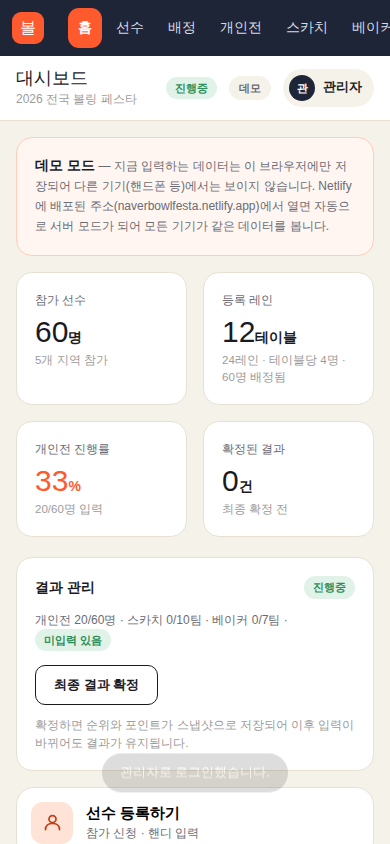
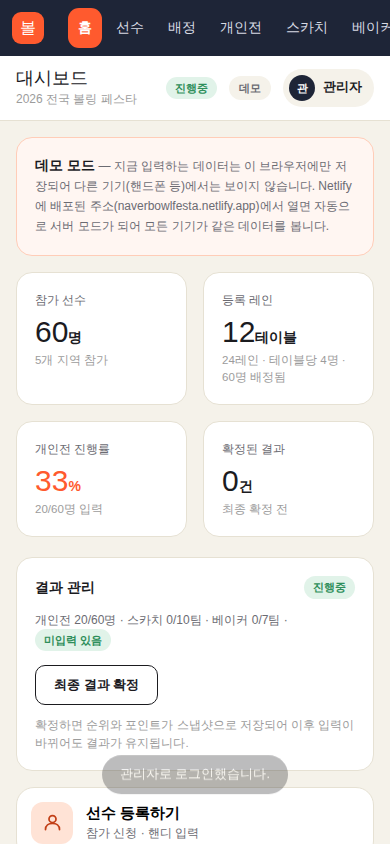
신청서 업로드 시 지역명 입력, 팀명은 지역명+번호로 생성, 팀명 일괄 재생성 버튼
- 업로드 카드에 지역명(예: 청주) 입력란 추가, 클럽명은 참고 표시·지역 비고에 저장
- 같은 클럽 신청서 재업로드 시 지역명 자동 채움
- 지역명 입력 중 화면을 다시 그리지 않아 등록 버튼 클릭이 끊기지 않음
- 배정 → 스카치/베이커에 '팀명 재생성 (지역명+번호)' 버튼

Claude-Session: https://claude.ai/code/session_01DhqBGLwVp5Frwx9nNKai69

Changed region(s): [[0.2462, 0.8934, 0.7385, 0.955]]

diff --git a/js/app.js b/js/app.js
@@ -431,6 +431,11 @@
   }
 
   // ----- 신청서 엑셀 업로드 -----
+  function uploadHint(u) {
+    const p = u.parsed; const name = (u.regionName || '').trim();
+    const existing = name ? state.data.regions.find(r => r.name === name) : null;
+    return `클럽명: <b>${esc(p.clubName || '-')}</b> · ${!name ? '<span class="form-error" style="display:inline">지역명을 입력하세요</span>' : existing ? `기존 지역 <b>${esc(existing.name)}</b>에 등록 (현재 ${state.data.players.filter(x => x.regionId === existing.id).length}명)` : '새 지역으로 추가'}`;
+  }
   function renderUploadCard() {
     const s = S();
     const ups = state.uploads;
@@ -441,11 +446,11 @@
     ups.forEach((u, i) => {
       const p = u.parsed;
       if (!p) { html += `<div class="lane-box mt"><b>${esc(u.fileName)}</b><p class="form-error">${esc(u.error || '읽기 실패')}</p></div>`; return; }
-      const existing = state.data.regions.find(r => r.name === (u.regionName || p.clubName));
+      // (지역명 안내 문구는 uploadHint 로 생성, 입력 중에는 DOM 만 갱신해 버튼 클릭이 끊기지 않게 함)
       const groups = {}; p.players.forEach(x => { groups[x.group] = (groups[x.group] || 0) + 1; });
       const unknownGroups = Object.keys(groups).filter(g => !s.groups.some(x => x.name === g));
       html += `<div class="lane-box mt"><div class="row between"><b>${esc(u.fileName)}</b>${u.done ? '<span class="badge final">등록 완료</span>' : ''}</div>
-        <div class="form-row mt"><div class="form-group"><label>클럽(지역) 이름</label><input type="text" data-upload-region="${i}" value="${esc(u.regionName || p.clubName)}"></div><div class="form-group" style="align-self:flex-end"><span class="small">${existing ? `기존 지역 <b>${esc(existing.name)}</b>에 등록 (현재 ${state.data.players.filter(x => x.regionId === existing.id).length}명)` : '새 지역으로 추가'}</span></div></div>
+        <div class="form-row mt"><div class="form-group"><label>지역명 <span class="muted" style="font-weight:400">(팀명은 지역명+번호로 생성, 예: 청주 → 청주1, 청주2)</span></label><input type="text" data-upload-region="${i}" value="${esc(u.regionName || '')}" placeholder="예: 청주" ${u.done ? 'disabled' : ''}></div><div class="form-group" style="align-self:flex-end"><span class="small" data-upload-hint="${i}">${uploadHint(u)}</span></div></div>
         <p class="small">개인전 <b>${p.players.length}</b>명 (${Object.entries(groups).map(([g, n]) => esc(g) + ' ' + n + '명').join(', ') || '-'}) · 여성 ${p.players.filter(x => x.gender === 'F').length}명 · 사이드 ${p.players.filter(x => x.side).length}명 · 3인조 ${p.reps.length}명 · 스카치 ${p.scotch.length}팀 · 베이커 ${p.baker.length}팀</p>
         <p class="small muted">${p.players.map(x => esc(x.name) + (x.handicap ? '(' + x.handicap + ')' : '')).join(', ')}</p>
         ${unknownGroups.length ? `<p class="form-error">신청서의 조 이름 ${unknownGroups.map(esc).join(', ')} 이(가) 설정의 조(${s.groups.map(g => esc(g.name)).join(', ')})와 다릅니다. 순서대로 대응시켜 등록합니다.</p>` : ''}
@@ -466,7 +471,10 @@
         const wb = XLSX.read(buf, { type: 'array' });
         const ws = wb.Sheets[wb.SheetNames[0]];
         const rows = XLSX.utils.sheet_to_json(ws, { header: 1, defval: null, raw: true });
-        u.parsed = Signup.parse(rows); u.regionName = u.parsed.clubName;
+        u.parsed = Signup.parse(rows);
+        const club = (u.parsed.clubName || '').trim();
+        const known = club ? state.data.regions.find(r => r.name === club || (r.note || '').includes(club)) : null;
+        u.regionName = known ? known.name : '';
         if (!u.parsed.players.length) { u.error = '선수를 찾지 못했습니다. 양식을 확인하세요.'; u.parsed = null; }
       } catch (e) { u.error = '읽기 실패: ' + e.message; }
       state.uploads.push(u);
@@ -478,10 +486,12 @@
   async function registerSignup(i) {
     const u = state.uploads[i]; if (!u || !u.parsed || u.done) return;
     const d = state.data; const s = S(); const p = u.parsed;
-    const regionName = (u.regionName || p.clubName || '').trim();
-    if (!regionName) return toast('클럽(지역) 이름을 입력하세요.', true);
+    const regionName = (u.regionName || '').trim();
+    if (!regionName) return toast(`${u.fileName}: 지역명을 입력하세요 (클럽명 ${p.clubName || '-'} → 예: 청주)`, true);
     let region = d.regions.find(r => r.name === regionName);
-    if (!region) { region = { id: Store.uid('r'), name: regionName, leader: '', note: '' }; d.regions = await Store.saveRegion(region); region = d.regions.find(r => r.name === regionName) || region; }
+    const clubNote = p.clubName && p.clubName !== regionName ? `클럽: ${p.clubName}` : '';
+    if (!region) { region = { id: Store.uid('r'), name: regionName, leader: '', note: clubNote }; d.regions = await Store.saveRegion(region); region = d.regions.find(r => r.name === regionName) || region; }
+    else if (clubNote && !(region.note || '').includes(p.clubName)) { d.regions = await Store.saveRegion({ ...region, note: [region.note, clubNote].filter(Boolean).join(' · ') }); region = d.regions.find(r => r.id === region.id) || region; }
     // 조 이름 매핑: 이름 일치 → 없으면 순서
     const formGroups = [...new Set(p.players.map(x => x.group))];
     const groupId = g => { const byName = s.groups.find(x => x.name === g); if (byName) return byName.id; const idx = formGroups.indexOf(g); return s.groups[idx] ? s.groups[idx].id : ''; };
@@ -505,7 +515,7 @@
     if (u.replace !== false || p.scotch.length) d.teams = await Store.replaceTeams(region.id, 'scotch', mk('scotch', p.scotch));
     if (u.replace !== false || p.baker.length) d.teams = await Store.replaceTeams(region.id, 'baker', mk('baker', p.baker));
     u.done = true;
-    return `${regionName}: 선수 ${list.length}명, 스카치 ${p.scotch.length}팀, 베이커 ${p.baker.length}팀 등록`;
+    return `${regionName}${p.clubName && p.clubName !== regionName ? `(${p.clubName})` : ''}: 선수 ${list.length}명, 스카치 ${p.scotch.length}팀, 베이커 ${p.baker.length}팀 등록`;
   }
 
   // ----- 배정 -----
@@ -554,6 +564,7 @@
         <div class="checkbox-grid">${cands.map(p => `<label class="checkbox-item"><input type="checkbox" class="team-cb" value="${esc(p.id)}" data-gender="${p.gender}"> ${esc(p.name)} <small>${p.gender === 'F' ? '여' : '남'}${p.handicap ? ' · 핸디 ' + p.handicap : ''}</small></label>`).join('') || '<span class="muted small">선택 가능한 선수가 없습니다.</span>'}</div>
         <div class="row mt"><button class="btn btn-small btn-primary" data-action="add-team" data-event="${event}">팀 등록</button>
         <button class="btn btn-small btn-secondary" data-action="auto-team-lanes" data-event="${event}">테이블 자동 배정</button>
+        <button class="btn btn-small btn-outline" data-action="rename-teams" data-event="${event}" title="모든 팀 이름을 지역명+번호(청주1, 청주2…)로 다시 붙입니다">팀명 재생성 (지역명+번호)</button>
         <input type="number" id="team-lane-from" value="${s.tableFrom || 1}" style="width:70px" title="시작 테이블"> <input type="number" id="team-per-lane" value="${event === 'scotch' ? 2 : 1}" style="width:60px" title="테이블당 팀 수"></div></div>`;
     }
     html += `<div class="card"><h2>${ev.name} 팀 (${rows.length}) <span class="h-actions no-print"><button class="btn btn-xs btn-outline" data-action="csv" data-sel="#team-assign-table" data-name="${ev.name}배정">CSV</button><button class="btn btn-xs btn-outline" data-action="print">인쇄</button></span></h2>
@@ -814,7 +825,10 @@
       case 'csv': return tableCsv(el.dataset.sel, el.dataset.name);
       case 'print': return window.print();
       case 'signup-register': { const msg = await run(() => registerSignup(num(el.dataset.i))); if (msg) toast(msg); return render(); }
-      case 'signup-register-all': { const msgs = []; await run(async () => { for (let i = 0; i < state.uploads.length; i++) { const m = await registerSignup(i); if (m) msgs.push(m); } }); toast(msgs.length + '개 클럽 등록 완료'); return render(); }
+      case 'signup-register-all': {
+        const missing = state.uploads.filter(u => u.parsed && !u.done && !(u.regionName || '').trim());
+        if (missing.length) return toast(`지역명이 비어 있는 신청서가 ${missing.length}개 있습니다. 각 파일의 지역명을 입력하세요.`, true);
+        const msgs = []; await run(async () => { for (let i = 0; i < state.uploads.length; i++) { const m = await registerSignup(i); if (m) msgs.push(m); } }); toast(msgs.length + '개 지역 등록 완료'); return render(); }
       case 'signup-clear': state.uploads = []; return render();
       case 'copy-prompt': { const t = IMPORT_PROMPT(num(el.dataset.n)); try { await navigator.clipboard.writeText(t); toast('요청문을 복사했습니다. AI 앱에 사진과 함께 붙여넣으세요.'); } catch (e) { prompt('아래 요청문을 복사하세요.', t); } return; }
       case 'score-import-preview': return previewScoreImport(el.dataset.event, state.scoreGroup || S().groups[0].id);
@@ -841,6 +855,13 @@
         const upd = list.map(p => ({ ...p, lane: a2[p.id].lane, pos: a2[p.id].pos }));
         await run(async () => { d.players = await Store.savePlayers(upd); await Store.saveSettings({ tableFrom: from, perTable: per }); d.settings.tableFrom = from; d.settings.perTable = per; }, `${tables[0]}~${tables[tables.length - 1]}번 테이블(${tableLanes(tables[0]).split('·')[0]}~${2 * tables[tables.length - 1]}레인)에 배정했습니다.`); return render();
       }
+      case 'rename-teams': {
+        const event = el.dataset.event; if (!(await guardDirty())) return;
+        if (!confirm(`${EV[event].name} 모든 팀 이름을 지역명+번호(예: 청주1, 청주2)로 다시 붙일까요?`)) return;
+        const d = state.data; const counter = {};
+        const list = d.teams.map((t, i) => ({ t, i })).filter(x => x.t.event === event).sort((a, b) => num(a.t.lane, 999) - num(b.t.lane, 999) || a.i - b.i).map(x => x.t)
+          .map(t => { counter[t.regionId] = (counter[t.regionId] || 0) + 1; return { id: t.id, name: `${regionName(t.regionId)}${counter[t.regionId]}` }; });
+        const r = await run(() => Store.saveTeams(list), `${list.length}개 팀 이름을 다시 붙였습니다.`); if (r) d.teams = r; return render(); }
       case 'add-team': {
         const ev = el.dataset.event; const ids = $$('.team-cb:checked').map(c => c.value);
         const size = EV[ev].size;
@@ -954,7 +975,7 @@
     if (el.dataset.impRow != null) { const r = state.scoreImport && state.scoreImport.rows[num(el.dataset.impRow)]; if (r) { r.candidateId = el.value || null; r.confidence = 1; } return render(); }
     if (el.dataset.impI != null) { const r = state.scoreImport && state.scoreImport.rows[num(el.dataset.impI)]; if (r) r.games[num(el.dataset.impG)] = el.value === '' ? null : Math.max(0, Math.min(300, num(el.value))); return; }
     if (k === 'signup-files') { const files = [...el.files]; el.value = ''; return readSignupFiles(files); }
-    if (el.dataset.uploadRegion != null) { const u = state.uploads[num(el.dataset.uploadRegion)]; if (u) u.regionName = el.value.trim(); return render(); }
+    if (el.dataset.uploadRegion != null) return; // onInput 에서 처리
     if (el.dataset.uploadReplace != null) { const u = state.uploads[num(el.dataset.uploadReplace)]; if (u) u.replace = el.checked; return; }
     if (k === 'import-json') {
       const file = el.files[0]; if (!file) return;
@@ -994,6 +1015,7 @@
     if (el.dataset.input === 'rank-q') { state.rankQ = el.value; return debouncedRender('rank-q'); }
     if (el.dataset.input === 'rec-q') { state.recQ = el.value; return debouncedRender('rec-q'); }
     if (el.dataset.input === 'players-q') { state.playersQ = el.value; return debouncedRender('players-q'); }
+    if (el.dataset.uploadRegion != null) { const i = num(el.dataset.uploadRegion); const u = state.uploads[i]; if (!u) return; u.regionName = el.value.trim(); const h = $(`[data-upload-hint="${i}"]`); if (h) h.innerHTML = uploadHint(u); return; }
   }
 
   document.addEventListener('DOMContentLoaded', init);

diff --git a/index.html b/index.html
@@ -79,6 +79,6 @@
   <script src="js/lanes.js?v=3"></script>
   <script src="js/sample-data.js?v=3"></script>
   <script src="js/store.js?v=5"></script>
-  <script src="js/app.js?v=5"></script>
+  <script src="js/app.js?v=6"></script>
 </body>
 </html>

diff --git a/README.md b/README.md
@@ -124,6 +124,9 @@ GitHub 저장소를 Netlify에 연결하면 `main`에 푸시할 때마다 자동
 - "기존 선수·팀을 신청서 기준으로 교체"를 켜면 그 클럽의 이전 등록 내용을 신청서 내용으로 갱신합니다 (이미 입력된 점수는 같은 이름 선수에 유지)
 - 파서는 `js/signup.js` (순수 함수, `test/signup.test.js` 에서 실제 신청서로 검증)
 
+- **지역명 입력**: 신청서의 클럽명(예: 드림존)과 별개로 등록 시 **지역명**(예: 청주)을 입력합니다. 지역 순위·포인트와 스카치·베이커 팀명이 이 지역명 기준으로 만들어집니다(청주1, 청주2…). 클럽명은 지역 비고에 "클럽: 드림존"으로 남고, 같은 클럽 신청서를 다시 올리면 지역명이 자동으로 채워집니다.
+- 이미 등록된 팀 이름을 바꾸려면 선수 탭에서 지역명을 수정한 뒤 배정 → 스카치/베이커의 **팀명 재생성 (지역명+번호)** 버튼을 누릅니다.
+
 ### 텍스트로 일괄 등록
 
 같은 화면 아래에 한 줄에 한 명씩 붙여넣기:
